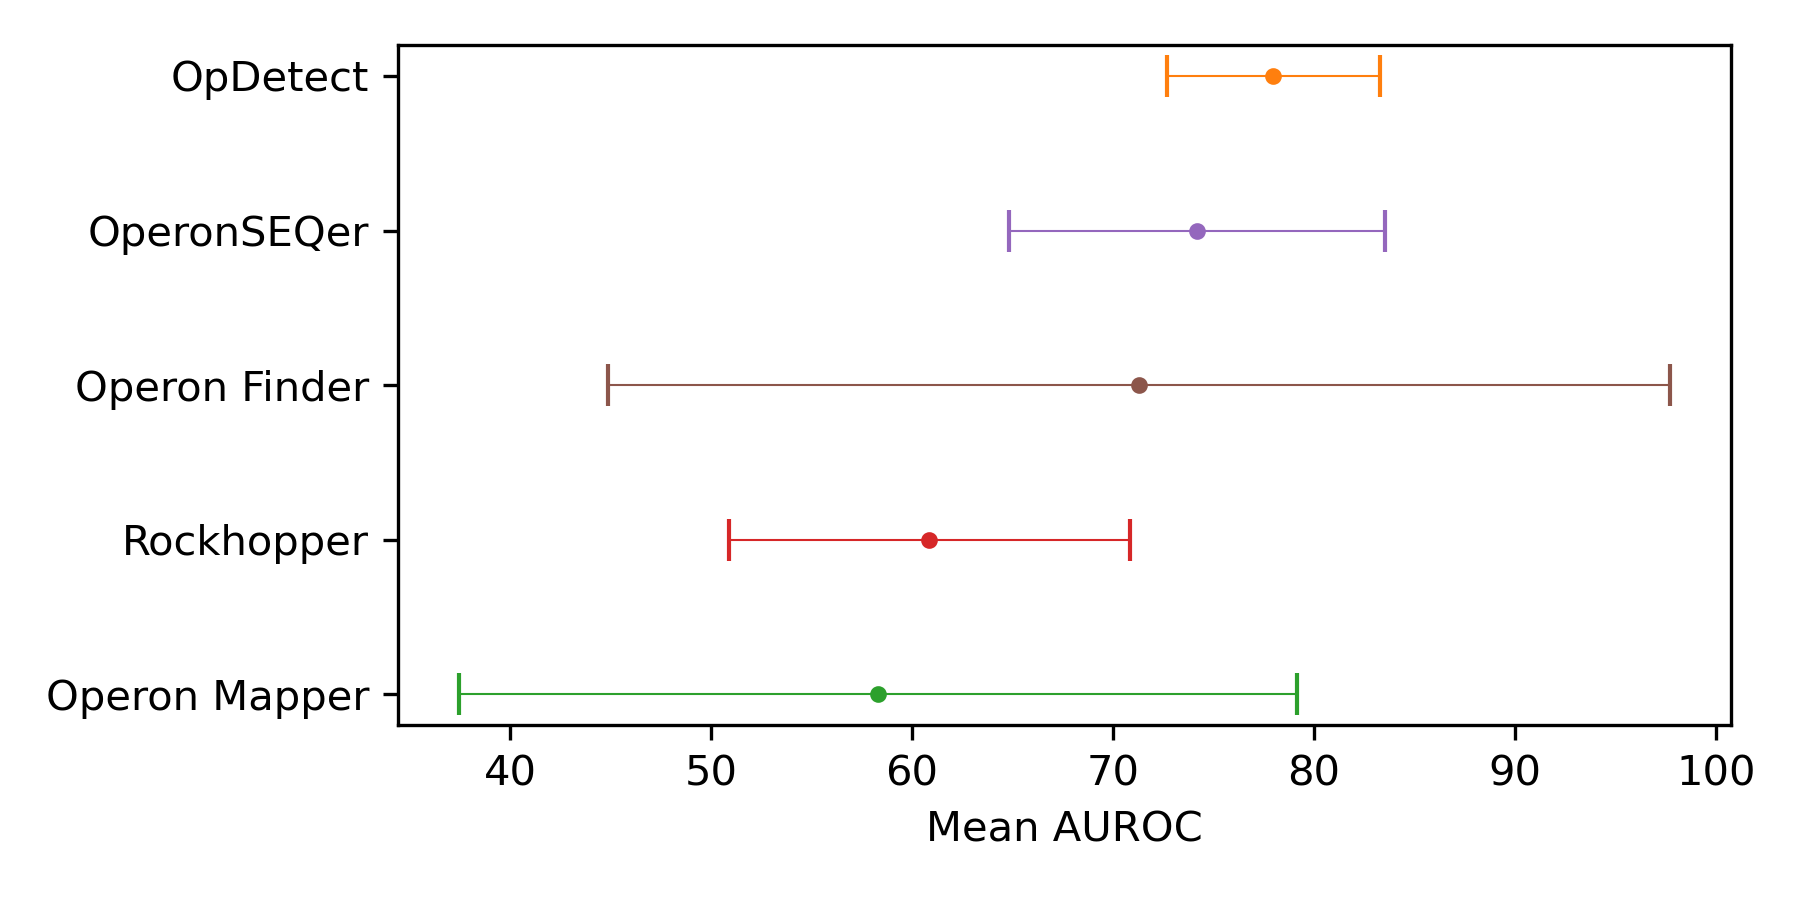
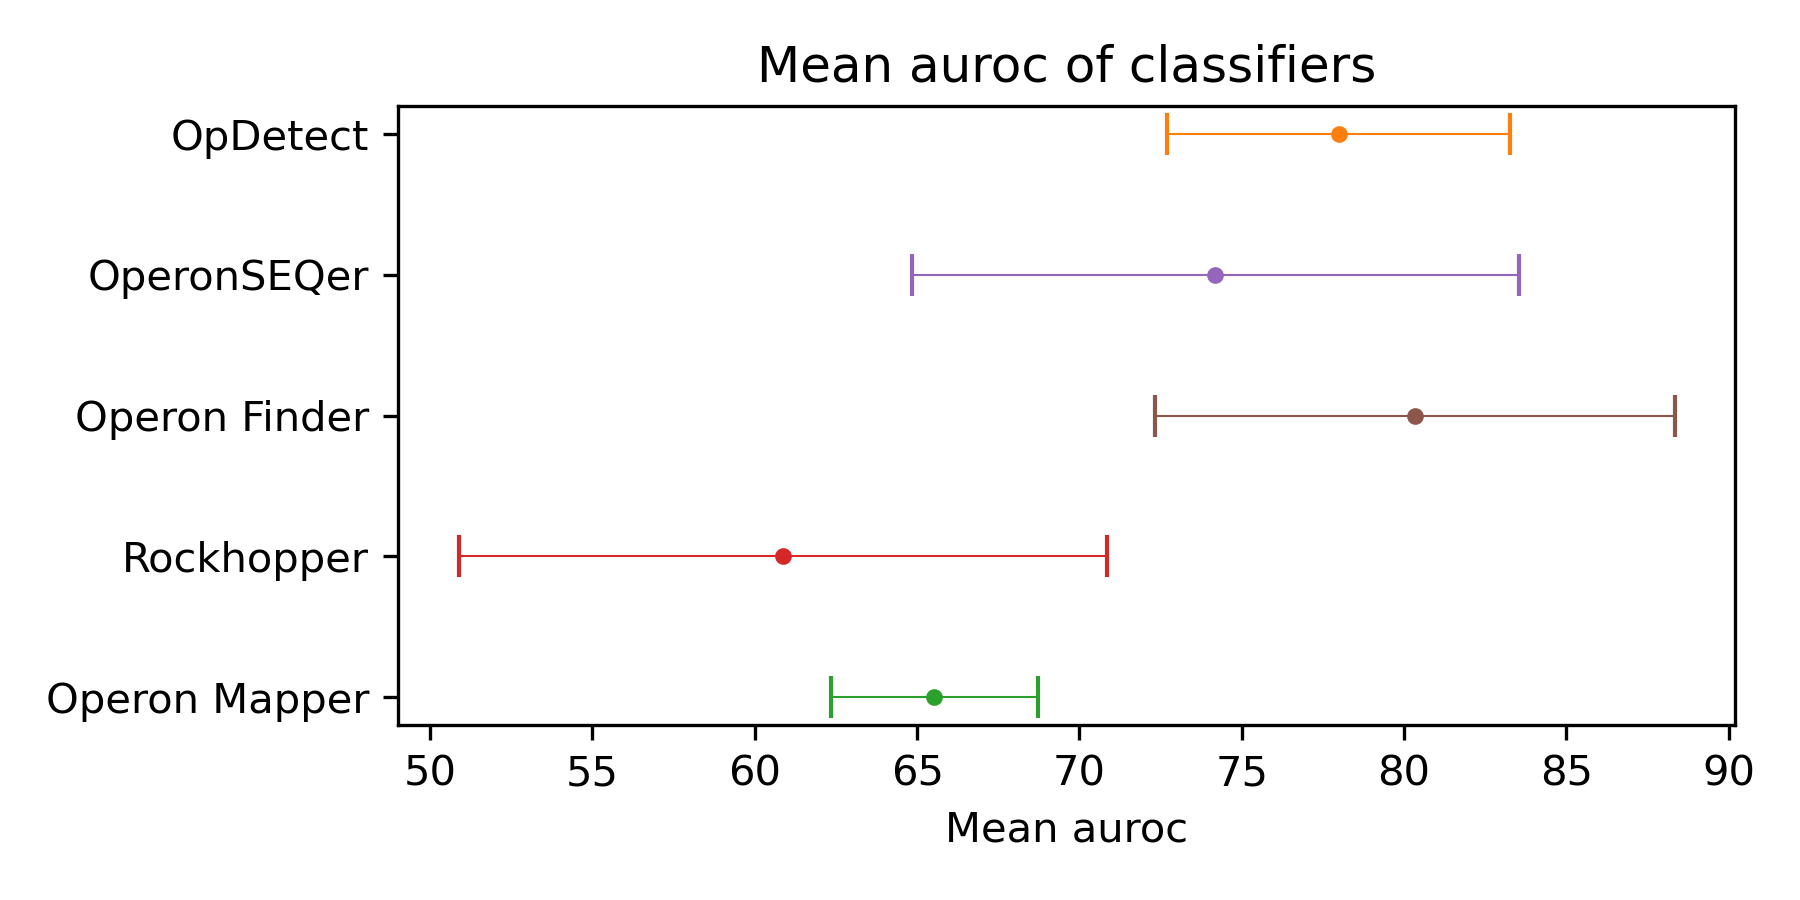
Add files via upload

diff --git a/stat_test.py b/stat_test.py
@@ -1,0 +1,131 @@
+import os
+import numpy as np
+import pandas as pd
+from scipy.stats import friedmanchisquare, rankdata, norm, chi2
+import matplotlib.pyplot as plt
+from sklearn.metrics import roc_curve, roc_auc_score, precision_recall_curve, auc, f1_score
+from Orange.evaluation import compute_CD, graph_ranks
+
+# Directory containing the model outputs (replace with your actual directory)
+dir = "outputs"
+models = ['om', 'rh', 'of', 'os', 'OpDetect']
+model_names = ['Operon Mapper', 'Rockhopper', 'Operon Finder', 'OperonSEQer','OpDetect']
+dataset_names = ['txid224308','txid196627','txid511145','txid85962','txid297246','txid169963','txid272634','txid298386','txid6239'] #['txid176299','txid224326','txid224911','txid208964', 'txid214092',]
+
+def collect_outputs(metric):
+    outputs = []
+    for model in models:
+        group = []
+        count = 0
+        not_exist = False
+        for txid in dataset_names:
+            path = f'{dir}/{model}_{txid}.csv'
+            if model == 'OpDetect':
+                path = f'{dir}/{model}_{txid}_{txid}.csv'
+
+            try:
+                pred = pd.read_csv(path)
+            except:
+                try:
+                    path = f'{dir}/{model}_{txid}.csv'
+                    pred = pd.read_csv(path)
+                except:
+                    # print(f'No prediction file for {model} on {txid}.')
+                    not_exist = True
+                    count += 1
+
+            if not_exist:
+                group.append(0)
+                not_exist = False
+                continue
+
+            pred = pred[pred.true != 2]
+            pred = pred[pred.pred != 2]
+            y_true = pred.true
+            y_pred = pred.pred
+
+            if metric == 'auroc':
+                # calc auroc
+                fpr, tpr, _ = roc_curve(y_true, y_pred)
+                auroc = roc_auc_score(y_true, y_pred)
+                group.append(auroc)
+            elif metric == 'f1':
+                # calc f1
+                f1 = f1_score(y_true, y_pred)
+                group.append(f1)
+            else:
+                print('Invalid metric')
+                return
+            
+        # Replace missing values with the median of the group
+        if count > 0:
+            group = [x if x != 0 else np.median(group) for x in group]
+
+
+        outputs.append(group)
+    outputs = np.array(outputs)
+    return outputs   
+
+
+def stats(outputs, metric):
+    print(f'Performing statistical tests for {metric}')
+    # Perform Friedman test to check for significant differences
+    f_stat, f_pval = friedmanchisquare(*outputs)
+    print(f'Friedman test statistic: {f_stat}')
+    # 8 digits after the decimal point
+    print(f'p-value: {f_pval:.8f}')
+
+    # Set the critical difference value based on the number of classifiers and datasets
+    num_classifiers = outputs.shape[0]
+    num_datasets = outputs.shape[1]
+
+    # obtain ranks
+    ranks = rankdata(outputs, axis=0)
+    ranks = num_classifiers - ranks.astype(int) + 1 # highest to lowest
+    mean_ranks = np.mean(ranks, axis=1)
+    print("Ranks")
+    print(dataset_names)
+    for model in model_names:
+        print(model, ranks[model_names.index(model)])
+
+
+    #generate a critical difference diagram with Nemenyi post-hoc, default alpha=0.05
+    cd = compute_CD(mean_ranks, num_datasets) #tested on 7 datasets
+    print(f'Critical difference in {metric}: {cd:.3f}')
+    graph_ranks(mean_ranks, model_names, cd=cd, width=6, reverse=True, textspace=1.5)
+    plt.savefig(f'critical_difference_{metric}.png', dpi=300)
+
+    # The dot represents the mean rank and bars represent standard error. Lower ranks indicate better performance, horizontal
+    fig, ax = plt.subplots(figsize=(6, 3))
+    # different color
+    colors = ['tab:green', 'tab:red', 'tab:brown', 'tab:purple', 'tab:orange', 'tab:blue']
+    for i in range(num_classifiers):
+        # horizontal plots
+        # xerr represents sandart error
+        std = np.std(outputs[i]*100)
+        mean_roc = np.mean(outputs[i]*100)
+        print(f'{model_names[i]}: {mean_roc:.2f} ± {std:.2f}')
+        ax.errorbar(mean_roc, i, xerr=std, fmt='o', color=colors[i], capsize=5, label=model_names[i], markersize=3, elinewidth=0.5)
+
+
+    ax.set_yticks(np.arange(num_classifiers))
+    ax.set_yticklabels(model_names)
+    # ax.set_xlabel('Mean AUROC')
+    # ax.set_title('Mean AUROC of classifiers')
+    ax.set_xlabel(f'Mean {metric}')  
+    ax.set_title(f'Mean {metric} of classifiers')
+
+
+    # make the figure narrower to fit the legend
+    fig.tight_layout()
+
+    # plt.savefig('mean_auroc.png', dpi=300)
+    plt.savefig(f'mean_{metric}.png', dpi=300)
+
+    print()
+
+
+outputs_f1 = collect_outputs('f1')
+outputs_auroc = collect_outputs('auroc')
+stats(outputs_f1, 'f1')
+stats(outputs_auroc, 'auroc')
